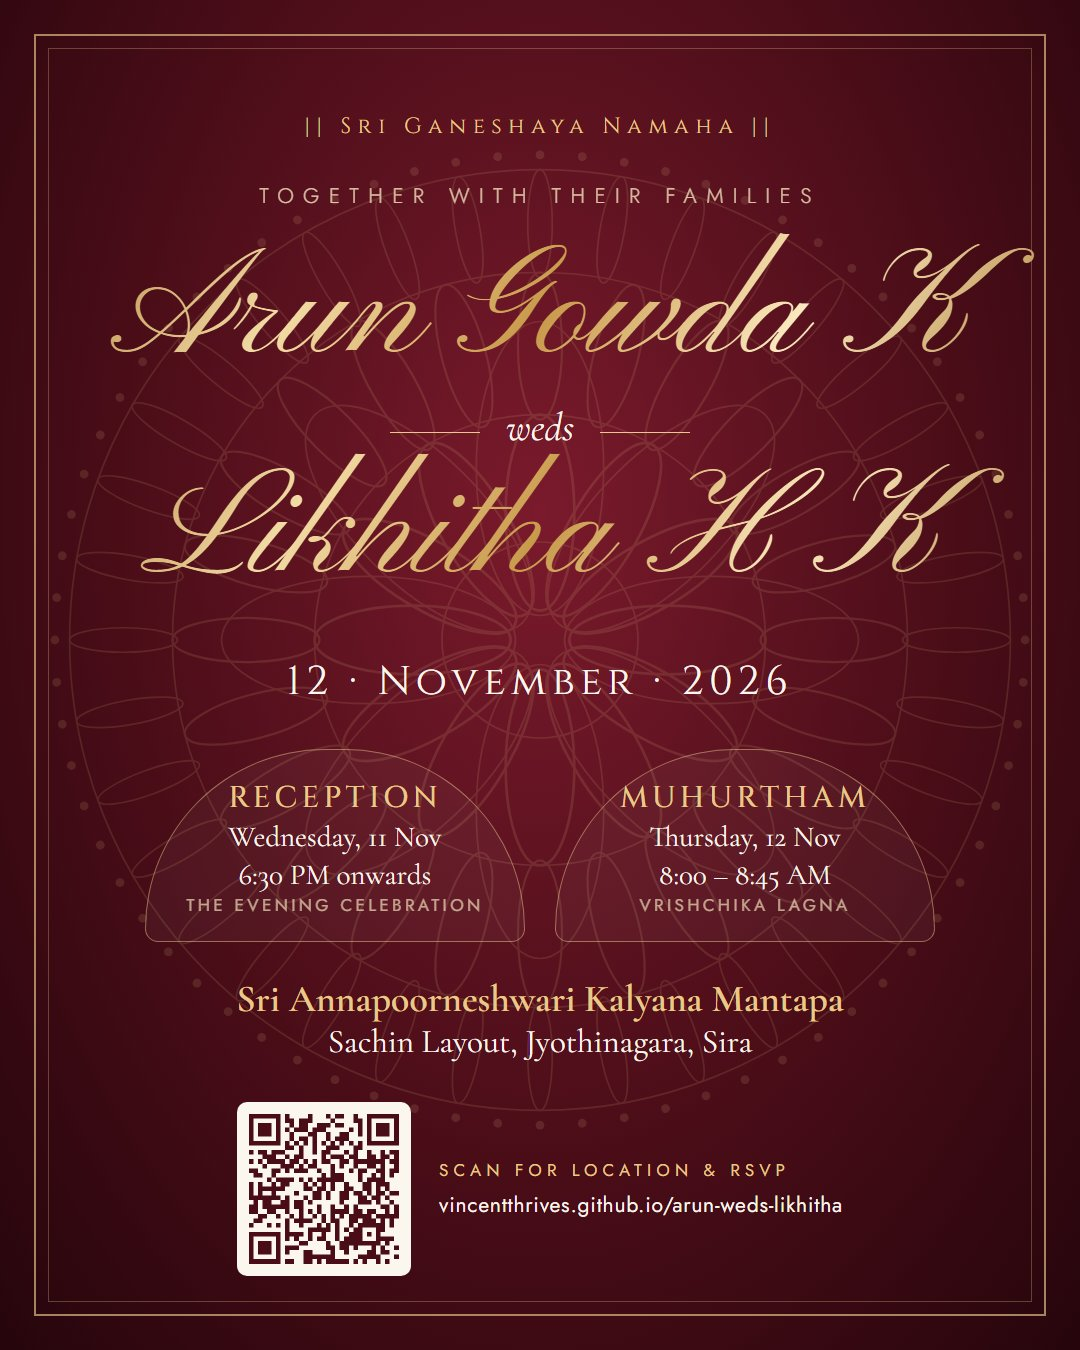
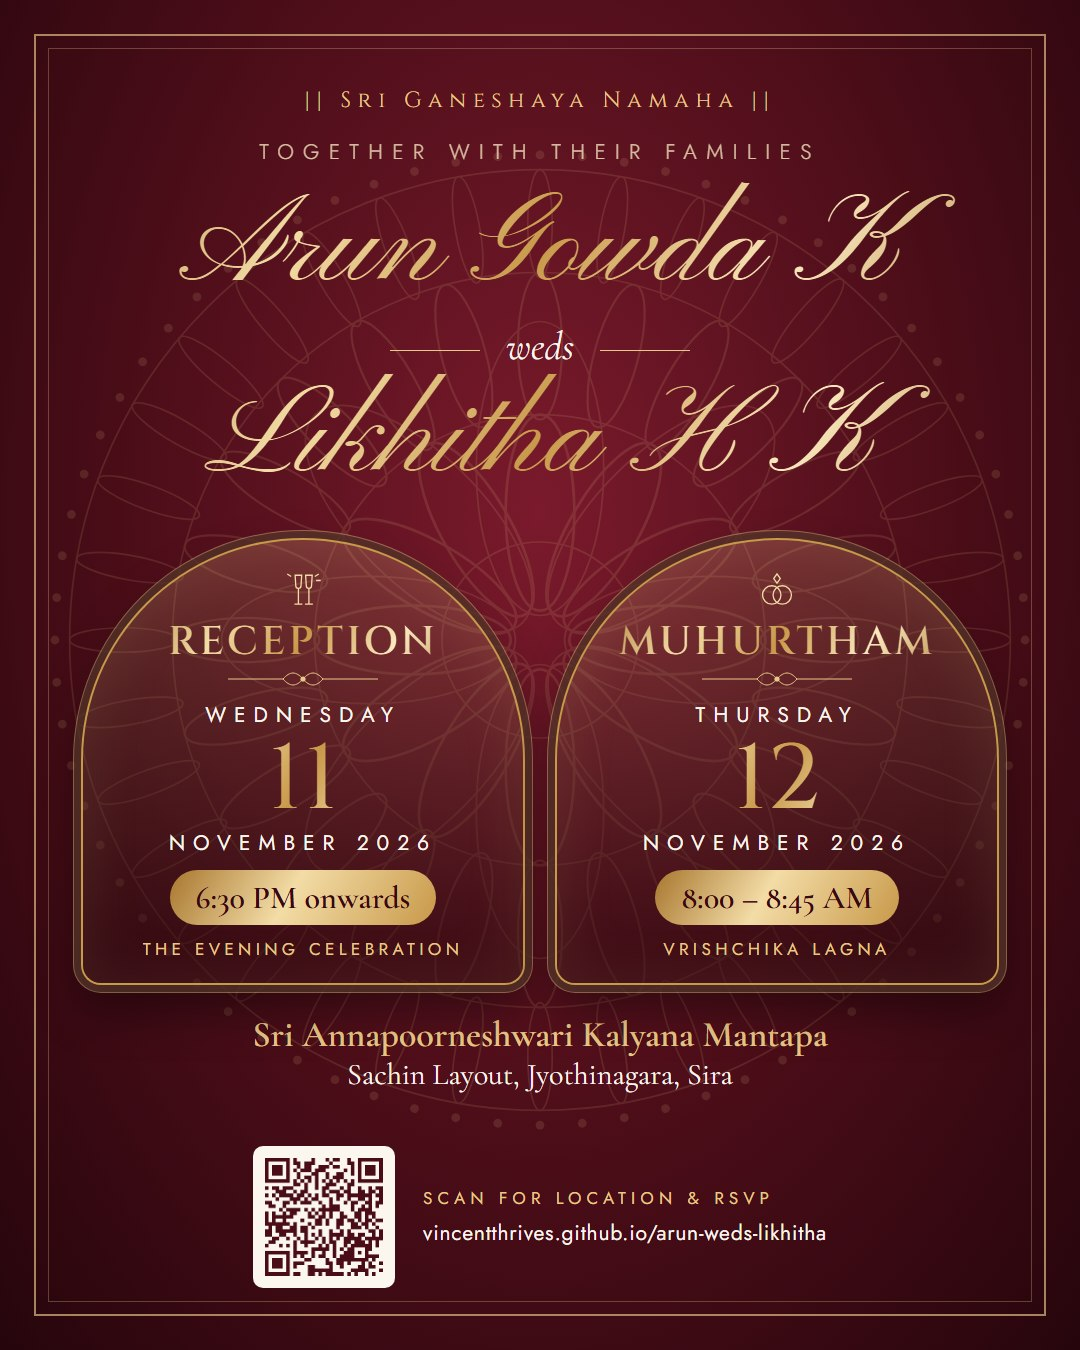
Card 1: drop date line, enlarge Reception and Muhurtham panels

Changed region(s): [[0.0611, 0.0622, 0.9472, 0.9644], [0.8556, 0.1244, 0.8861, 0.1556]]

diff --git a/share/cards.html b/share/cards.html
@@ -23,22 +23,31 @@
   .d1 .mandala { width: 980px; left: 50px; top: 150px; color: #e8c98a; opacity: .13; }
   .gold { background: linear-gradient(120deg,#a8772f 0%,#f3dca6 28%,#c8994a 50%,#fbe9bf 72%,#a8772f 100%);
           -webkit-background-clip: text; background-clip: text; color: transparent; }
-  .d1 .inner { position: relative; padding-top: 112px; }
+  .d1 .inner { position: relative; padding-top: 86px; }
   .d1 .om { font-family: "Cinzel"; font-size: 22px; letter-spacing: .3em; color: #e8c98a; }
-  .d1 .eyebrow { font-family: "Jost"; font-weight: 300; font-size: 21px; letter-spacing: .45em; text-transform: uppercase; margin-top: 40px; opacity: .85; }
-  .d1 .nm { font-family: "Pinyon Script"; font-size: 150px; line-height: 1.12; }
+  .d1 .eyebrow { font-family: "Jost"; font-weight: 300; font-size: 21px; letter-spacing: .45em; text-transform: uppercase; margin-top: 22px; opacity: .85; }
+  .d1 .nm { font-family: "Pinyon Script"; font-size: 126px; line-height: 1.1; }
   .d1 .weds { font-family: "Cormorant Garamond"; font-style: italic; font-size: 40px; color: #fbf6ee; margin: 2px 0; }
   .d1 .weds:before, .d1 .weds:after { content: ""; display: inline-block; width: 90px; height: 1px; background: #e8c98a; vertical-align: middle; margin: 0 26px; }
   .d1 .date { font-family: "Cinzel"; font-size: 40px; letter-spacing: .14em; margin-top: 34px; color: #fbf6ee; }
-  .d1 .events { display: flex; justify-content: center; gap: 30px; margin-top: 40px; }
-  .d1 .ev { width: 380px; padding: 28px 18px 24px; border: 1px solid rgba(232,201,138,.5); border-radius: 190px 190px 14px 14px; background: rgba(255,255,255,.04); }
-  .d1 .ev h4 { font-family: "Cinzel"; font-weight: 500; font-size: 30px; letter-spacing: .14em; color: #e8c98a; }
-  .d1 .ev p { font-family: "Cormorant Garamond"; font-size: 29px; line-height: 1.3; color: #fbf6ee; }
-  .d1 .ev small { font-family: "Jost"; font-size: 17px; letter-spacing: .2em; text-transform: uppercase; opacity: .7; }
-  .d1 .venue { font-family: "Cormorant Garamond"; font-size: 33px; margin-top: 34px; color: #fbf6ee; }
-  .d1 .venue b { font-weight: 600; color: #e8c98a; display: block; font-size: 38px; }
-  .d1 .foot { left: 0; right: 0; bottom: 74px; display: flex; align-items: center; justify-content: center; gap: 28px; }
+  .d1 .events { display: flex; justify-content: center; gap: 34px; margin-top: 30px; }
+  .d1 .ev { position: relative; width: 440px; padding: 30px 20px 22px; border-radius: 220px 220px 18px 18px;
+     background: linear-gradient(180deg, rgba(232,201,138,.16), rgba(38,5,12,.55));
+     box-shadow: 0 0 0 2px #c8994a, 0 0 0 9px rgba(38,5,12,.6), 0 0 0 10px rgba(232,201,138,.45), 0 24px 50px rgba(0,0,0,.45), inset 0 0 60px rgba(232,201,138,.12); }
+  .d1 .ev .ic { width: 42px; height: 42px; margin: 0 auto 4px; color: #f3dca6; }
+  .d1 .ev h4 { font-family: "Cinzel"; font-weight: 600; font-size: 40px; letter-spacing: .08em; line-height: 1.1; }
+  .d1 .ev .orn { width: 150px; height: 14px; margin: 8px auto 10px; color: #e8c98a; }
+  .d1 .ev .wd { font-family: "Jost"; font-weight: 400; font-size: 21px; letter-spacing: .38em; text-transform: uppercase; color: #fbf6ee; }
+  .d1 .ev .dd { font-family: "Cinzel"; font-weight: 500; font-size: 92px; line-height: 1; margin: 4px 0 2px; }
+  .d1 .ev .mm { font-family: "Jost"; font-size: 21px; letter-spacing: .38em; text-transform: uppercase; color: #fbf6ee; }
+  .d1 .ev .tm { display: inline-block; margin-top: 12px; padding: 8px 26px; border-radius: 999px; background: linear-gradient(120deg,#a8772f,#f3dca6 45%,#c8994a);
+     color: #3a0812; font-family: "Cormorant Garamond"; font-weight: 600; font-size: 32px; }
+  .d1 .ev small { display: block; margin-top: 12px; font-family: "Jost"; font-size: 17px; letter-spacing: .26em; text-transform: uppercase; color: #e8c98a; }
+  .d1 .venue { font-family: "Cormorant Garamond"; font-size: 30px; margin-top: 30px; color: #fbf6ee; }
+  .d1 .venue b { font-weight: 600; color: #e8c98a; display: block; font-size: 36px; }
+  .d1 .foot { left: 0; right: 0; bottom: 62px; display: flex; align-items: center; justify-content: center; gap: 28px; }
   .d1 .qr { background: #fbf6ee; }
+  .d1 .qr img, .d1 .qr canvas { width: 118px !important; height: 118px !important; }
   .d1 .foot .txt { text-align: left; }
   .d1 .scan { color: #e8c98a; }
   .d1 .link { color: #fbf6ee; margin-top: 8px; }
@@ -219,13 +228,12 @@ const T = {
 1: () => `<div class="card d1">${M()}<div class="abs frame"></div><div class="abs frame2"></div><div class="inner">
   <div class="om">|| Sri Ganeshaya Namaha ||</div>
   <div class="eyebrow">Together with their families</div>
-  <div class="nm gold" style="margin-top:22px">Arun Gowda K</div>
+  <div class="nm gold" style="margin-top:14px">Arun Gowda K</div>
   <div class="weds">weds</div>
   <div class="nm gold">Likhitha H K</div>
-  <div class="date">12 · November · 2026</div>
   <div class="events">
-    <div class="ev"><h4>RECEPTION</h4><p>Wednesday, 11 Nov<br>6:30 PM onwards</p><small>The Evening Celebration</small></div>
-    <div class="ev"><h4>MUHURTHAM</h4><p>Thursday, 12 Nov<br>8:00 – 8:45 AM</p><small>Vrishchika Lagna</small></div>
+    <div class="ev"><svg class="ic" viewBox="0 0 64 64" fill="none" stroke="currentColor" stroke-width="2"><path d="M20 8h10l-1 16a4 4 0 0 1-8 0z"/><path d="M25 28v24M19 52h12"/><path d="M36 8h10l-1 16a4 4 0 0 1-8 0z"/><path d="M41 28v24M35 52h12"/><path d="M50 10l6-4M52 16h7M14 10l-6-4"/></svg><h4 class="gold">RECEPTION</h4><svg class="orn" viewBox="0 0 150 14"><path d="M0 7h55M95 7h55" stroke="currentColor"/><path d="M55 7c7-8 13-8 20 0c7 8 13 8 20 0c-7-8-13-8-20 0c-7 8-13 8-20 0z" fill="none" stroke="currentColor"/><circle cx="75" cy="7" r="2.6" fill="currentColor"/></svg><div class="wd">Wednesday</div><div class="dd gold">11</div><div class="mm">November 2026</div><div class="tm">6:30 PM onwards</div><small>The Evening Celebration</small></div>
+    <div class="ev"><svg class="ic" viewBox="0 0 64 64" fill="none" stroke="currentColor" stroke-width="2"><circle cx="24" cy="38" r="14"/><circle cx="40" cy="38" r="14"/><path d="M32 6l5 7-5 7-5-7z"/></svg><h4 class="gold">MUHURTHAM</h4><svg class="orn" viewBox="0 0 150 14"><path d="M0 7h55M95 7h55" stroke="currentColor"/><path d="M55 7c7-8 13-8 20 0c7 8 13 8 20 0c-7-8-13-8-20 0c-7 8-13 8-20 0z" fill="none" stroke="currentColor"/><circle cx="75" cy="7" r="2.6" fill="currentColor"/></svg><div class="wd">Thursday</div><div class="dd gold">12</div><div class="mm">November 2026</div><div class="tm">8:00 – 8:45 AM</div><small>Vrishchika Lagna</small></div>
   </div>
   <div class="venue"><b>Sri Annapoorneshwari Kalyana Mantapa</b>Sachin Layout, Jyothinagara, Sira</div>
 </div>${foot()}</div>`,
